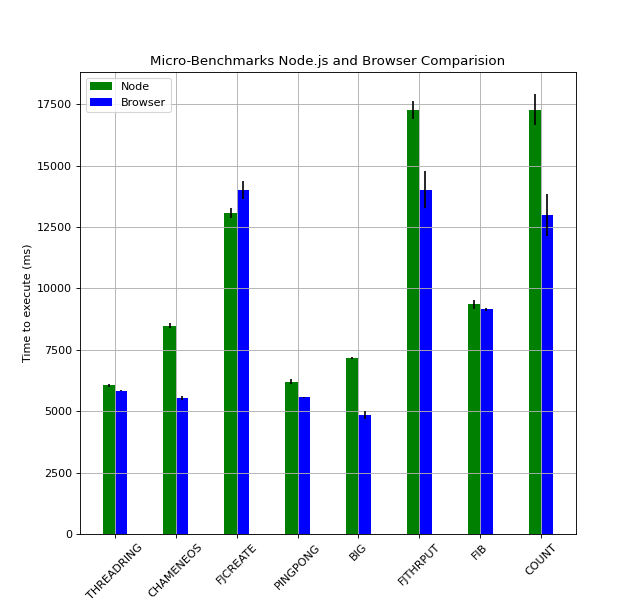
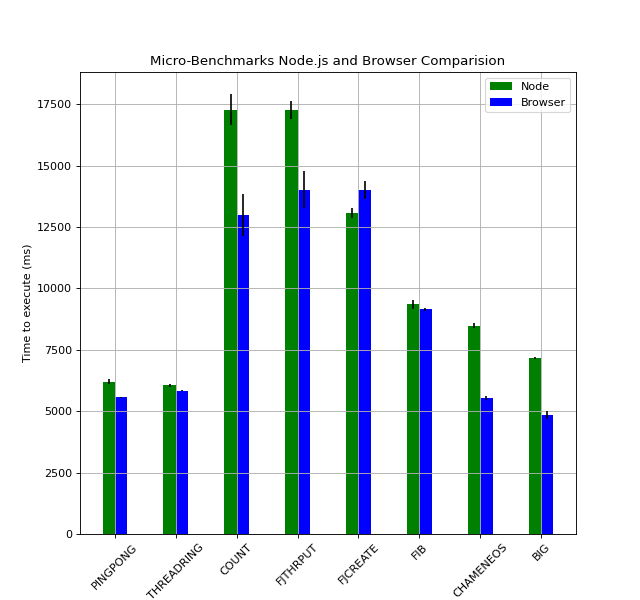
Fixed micro benchmark visualisation

diff --git a/benchmarks/node/micro/count.js b/benchmarks/node/micro/count.js
@@ -2,7 +2,7 @@
 import actors from '../../../src/actors.js';
 const { init, spawn, spawnRemote, terminate, send} = actors
 
-const N = process.argv.slice(2)[1] ? parseInt(process.argv.slice(2)[1]) : 15000000;  //Successive messages to be sent
+const N = process.argv.slice(2)[1] ? parseInt(process.argv.slice(2)[1]) : 10000000;  //Successive messages to be sent
 const rounds = parseInt(process.argv.slice(2)[0]);   //Rounds
 
 const counterBehaviour = (state, message, self) => {

diff --git a/benchmarks/node/micro/fjthrput.js b/benchmarks/node/micro/fjthrput.js
@@ -2,7 +2,7 @@
 import actors from '../../../src/actors.js';
 const { init, spawn, spawnRemote, terminate, send} = actors
 
-const N = 1500000;  //total messages to send to each actor
+const N = 1000000;  //total messages to send to each actor
 const K = process.argv.slice(2)[1] ? parseInt(process.argv.slice(2)[1]) : 10;       //total number of actors to spawn
 const rounds = parseInt(process.argv.slice(2)[0]);
 

diff --git a/benchmarks/visualisations/micro.py b/benchmarks/visualisations/micro.py
@@ -8,13 +8,14 @@ from scipy.stats import sem
 node_data = {}
 browser_data = {}
 node_directory = '../node/micro/results'
+micro_benchmarks = ['pingpong', 'threadring', 'count', 'fjthrput', 'fjcreate', 'fib', 'chameneos', 'big']
 
 #Scrape node results
-for filename in os.listdir(node_directory):
-    name = filename.split('.')[0].upper()
+for benchmark in micro_benchmarks:
+    name = benchmark.upper()
     node_data[name] = []
     browser_data[name] = []
-    with open(f'{node_directory}/{filename}') as f:
+    with open(f'{node_directory}/{benchmark}.js.txt') as f:
         for line in f.readlines():
             node_data[name].append(int(line.strip()))
 
